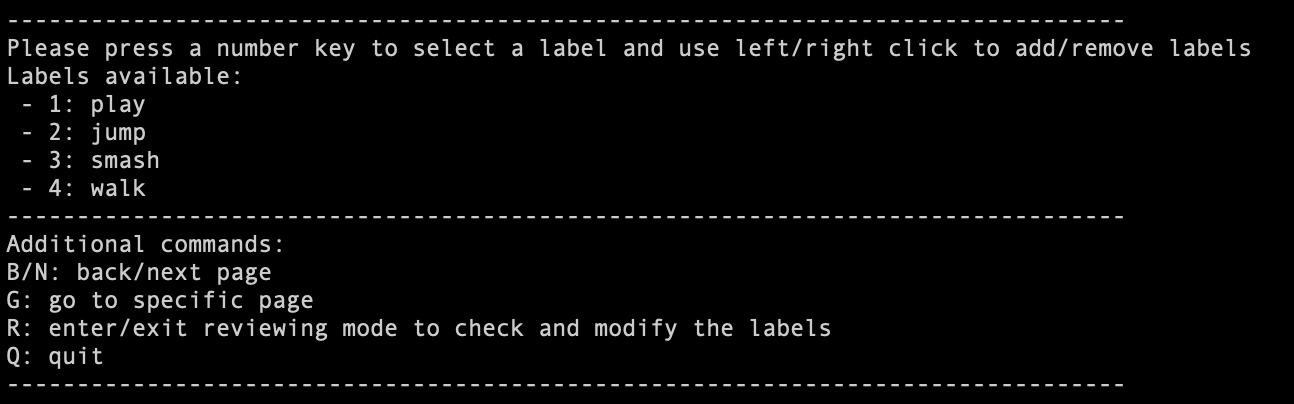
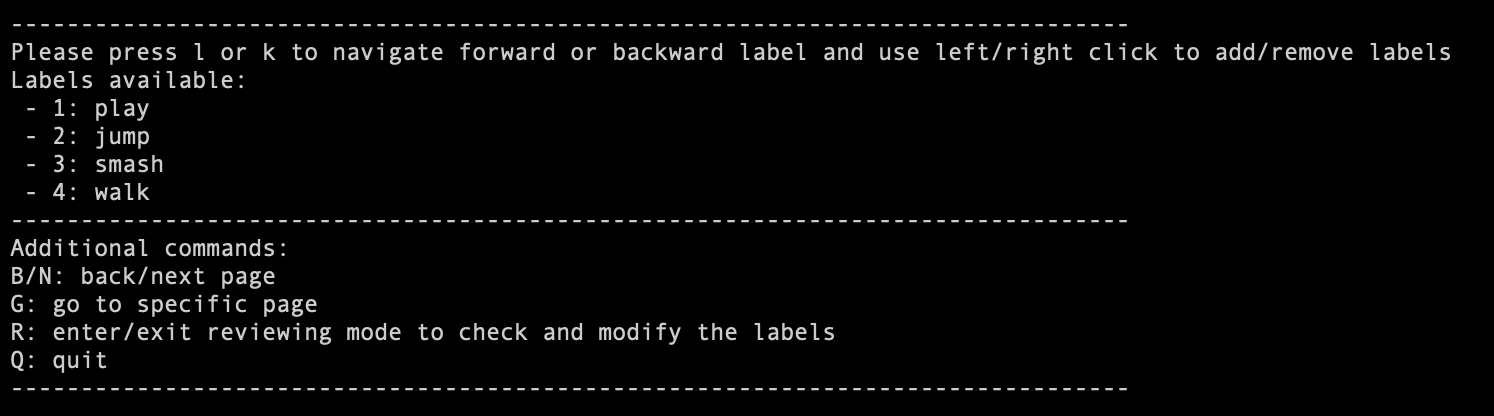
use l/k to navigate forward/backward labels

Changed region(s): [[0.0, 0.4455, 0.8655, 0.9802], [0.0, 0.0297, 0.9892, 0.4158]]

diff --git a/lib/annotator.py b/lib/annotator.py
@@ -466,7 +466,7 @@ class Annotator:
     def show_label_guide(self):
         '''Show the labels available with the keyboard key to select them'''
         print('\n' + '-'*80)
-        print('Please press a number key to select a label and use left/right '
+        print('Please press l or k to navigate forward or backward label and use left/right '
               'click to add/remove labels')
         print('Labels available:')
         for li, label in enumerate(self.labels):
@@ -574,14 +574,26 @@ class Annotator:
             except (ValueError, TypeError):
                 print('Page must be a number')
                 
-        # Select label
-        if chr(key_input) in {chr(d) for d in range(ord('0'),ord('9')+1)}:
+        # # Select label
+        # if chr(key_input) in {chr(d) for d in range(ord('0'),ord('9')+1)}:
 
-            if int(chr(key_input)) > len(self.labels):
-                print('Error: label %s not implemented' % chr(key_input))
+        #     if int(chr(key_input)) > len(self.labels):
+        #         print('Error: label %s not implemented' % chr(key_input))
+        #     else:
+        #         self.selected_label = int(chr(key_input))-1
+        #         print('Label selected: %s' % self.labels[self.selected_label]['name'])
+
+        # Navigate labels
+        if chr(key_input) in {'l', 'R'}:
+            self.selected_label = (self.selected_label+1)%len(self.labels)
+            print('Label selected: %s' % self.labels[self.selected_label]['name'])
+
+        if chr(key_input) in {'k', 'K'}:
+            if self.selected_label == 0:
+                self.selected_label = len(self.labels)-1
             else:
-                self.selected_label = int(chr(key_input))-1
-                print('Label selected: %s' % self.labels[self.selected_label]['name'])
+                self.selected_label = self.selected_label - 1
+            print('Label selected: %s' % self.labels[self.selected_label]['name'])
         
         # Reviewing mode
         if chr(key_input) in {'r', 'R'}:
